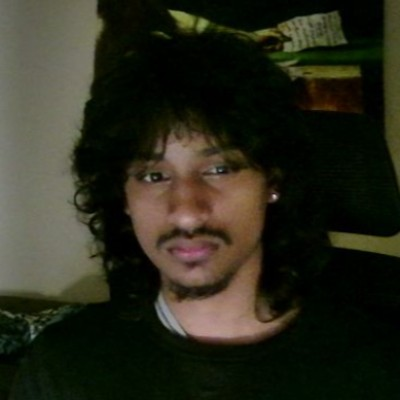
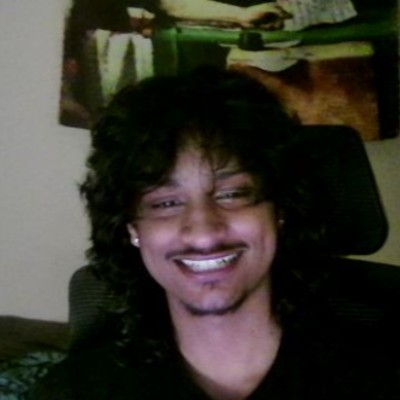
profile changed

diff --git a/src/data/content.js b/src/data/content.js
@@ -10,8 +10,8 @@ export const profile = {
     'Computer Scientist',
     'AI/ML Engineer',
   ],
-  location: 'Colorado',
-  email: 'charugundla.adarsh@gmail.com',
+  location: 'Boulder, Colorado',
+  email: 'livingglitch321@gmail.com',
   photo: '/profile.jpg',
 }
 
@@ -22,7 +22,7 @@ export const socialLinks = [
     url: 'https://www.linkedin.com/in/adarsh-charugundla-76855924a/',
     icon: 'linkedin',
   },
-  { label: 'Email', url: 'mailto:charugundla.adarsh@gmail.com', icon: 'mail' },
+  { label: 'Email', url: 'mailto:livingglitch321@gmail.com', icon: 'mail' },
 ]
 
 export const about = {
@@ -37,8 +37,8 @@ export const about = {
     'Interests: guitar, bass, drums, piano, music production, music engineering/mastering.',
   ],
   personalInfo: [
-    { label: 'Location', value: 'Colorado' },
-    { label: 'Email', value: 'charugundla.adarsh@gmail.com' },
+    { label: 'Location', value: 'Boulder, Colorado' },
+    { label: 'Email', value: 'livingglitch321@gmail.com' },
     { label: 'Education', value: 'University of Colorado Boulder' },
   ],
 }
@@ -51,47 +51,50 @@ export const portfolioItems = [
   {
     id: 'skyit-devops-intern',
     category: 'Experience',
-    title: 'DevOps Engineer (Intern): SkyIT (GBCS Group)',
-    period: 'Dec 2025 - Apr 2026',
+    title: 'DevOps Team Lead (Intern): SkyIT',
+    period: 'Current',
     description:
-      'Provisioned secure multi-environment AWS infrastructure with Terraform, containerized services with Docker/ECR, orchestrated Kubernetes workloads, and built GitHub Actions CI/CD pipelines.',
-    tags: ['Terraform', 'AWS', 'Kubernetes', 'Docker', 'OIDC', 'CI/CD'],
+      'Led deployment of secure, scalable AWS infrastructure as DevOps Team Lead. Directed Terraform IaC initiatives across three isolated VPC environments (LokoMotive, Aukai, Orion), automated RDS provisioning, and containerized full-stack apps via Docker/ECR.',
+    tags: ['Terraform', 'AWS', 'OIDC', 'CI/CD', 'Docker', 'ECR'],
     link: 'https://skyit.services',
   },
   {
-    id: 'iam-least-privilege-audit',
+    id: 'nodejs-postgresql-api',
     category: 'Projects',
-    title: 'FrazyCorp IAM Least-Privilege Enforcement',
+    title: 'NodeJS PostgreSQL API',
     period: '',
     description:
-      'Terraform-managed IAM enforcement system for a simulated multi-department AWS environment, reducing overpermissioned roles from 4 to 0. Automated compliance auditing with AWS Config and IAM Access Analyzer, plus a GitHub Actions OIDC security gate blocking overpermissive policies before they reach AWS.',
-    tags: ['Terraform', 'AWS IAM', 'AWS Config', 'GitHub Actions', 'Python', 'boto3'],
-    link: 'https://github.com/AdarshChar/iam-least-privilege-audit',
+      'Built a RESTful API with Node.js and Express.js backed by PostgreSQL, implementing full CRUD across multiple endpoints with proper HTTP methods, status codes, and error handling. Applied SQL query optimization, connection pooling, and MVC architecture with custom middleware.',
+    tags: ['Node.js', 'Express.js', 'PostgreSQL', 'Docker', 'REST API'],
+    link: 'https://github.com/AdarshChar/NodeJS',
   },
   {
-    id: 'gtsdb-roadsign-classifier',
+    id: 'road-sign-detector',
     category: 'Projects',
-    title: 'Traffic Sign Detection System',
-    period: '',
+    title: 'Road Sign Detector: YOLOv8 Transfer Learning Study',
+    period: '2025',
     description:
-      'Trained YOLOv8n on the GTSDB dataset (43 classes), improving recall by 31.3% via a custom photometric augmentation pipeline. Built a preprocessing pipeline converting PPM annotations to YOLO format across 852 ground-truth entries.',
-    tags: ['Python', 'YOLOv8', 'OpenCV', 'Roboflow', 'NumPy'],
+      'Trained and compared two YOLOv8s models on a stratified 7,500-image subset of GTSRB (43 classes) to study the impact of harsh-condition augmentation on detection robustness. Built a custom Albumentations pipeline simulating night driving, motion blur, fog, and compression artifacts, improving mAP resilience on a synthetically degraded test set versus an unaugmented baseline.',
+    tags: ['Python', 'YOLOv8', 'OpenCV', 'Albumentations', 'Google Colab'],
     link: 'https://github.com/AdarshChar/GTSDB-Roadsign-Classifier',
   },
 ]
 
 export const experience = {
-  role: 'DevOps Engineer (Intern)',
-  company: 'SkyIT (GBCS Group)',
+  role: 'DevOps Team Lead (Intern)',
+  company: 'SkyIT',
   companyUrl: 'https://skyit.services',
-  period: 'Dec 2025 - Apr 2026',
-  stack: 'Terraform, AWS (VPC, RDS, ECR), Kubernetes, Docker, OIDC, CI/CD',
+  period: 'Current',
+  stack: 'Terraform, AWS, OIDC, CI/CD',
   bullets: [
-    'Provisioned secure AWS infrastructure across three isolated environments (LokoMotive, Aukai, Orion) using Terraform IaC, designing custom VPC topologies with CIDR-level network segmentation.',
-    'Automated RDS deployments via reusable Terraform modules, authoring tfvars configurations and smoke-testing procedures that standardized provisioning, ensured high-availability storage, and reduced manual configuration errors.',
-    'Containerized frontend and backend services with Docker, building, tagging, and managing images through secure ECR pipelines for consistent deployments across all environments.',
-    'Built GitHub Actions CI/CD pipelines to automate build, test, and release stages, reducing manual intervention and ensuring stable, repeatable releases across all environments.',
-    'Orchestrated containerized workloads on Kubernetes across development and production, deploying via Docker images and ECR pipelines while managing pod scheduling, autoscaling, and service networking for reliable releases.',
+    'Led the deployment of secure, scalable AWS infrastructure for enterprise applications. Directed Infrastructure as Code (IaC) initiatives using Terraform to automate provisioning, optimize RDS architectures, and enforce strict network isolation via custom VPC configurations across all environments.',
+    'Architected secure cloud networks: designed and implemented isolated Virtual Private Cloud (VPC) topologies utilizing custom CIDR blocks for the LokoMotive, Aukai, and Orion environments, ensuring robust network security and strict traffic segmentation.',
+    'Automated database provisioning: configured and deployed highly resilient Relational Database Service (RDS) modules via Terraform, streamlining backend data management and establishing high-availability storage for mission-critical applications.',
+    'Streamlined infrastructure deployment: authored comprehensive deployment documentation, Terraform variable (tfvars) configurations, and smoke testing procedures, significantly reducing manual configuration errors and accelerating new project onboarding.',
+    'Cross-functional collaboration: partnered with engineering leads and deployment teams to coordinate seamless application migrations, orchestrate task scheduling, and manage secure container registries utilizing AWS ECR.',
+    'Team leadership and orchestration: acted as DevOps Team Lead, coordinating with project leads and engineering teams to streamline application migrations and automate infrastructure workflows.',
+    'Containerized full-stack applications: Dockerized frontend and backend repositories, built and tagged container images, and pushed them to AWS Elastic Container Registry (ECR) to enable consistent, repeatable deployments across environments.',
+    'CI/CD pipeline integration: worked within existing CI/CD pipeline frameworks to automate build, test, and deployment stages, reducing manual intervention and ensuring stable, repeatable release processes across development and production environments.',
   ],
 }
 
@@ -105,28 +108,20 @@ export const education = {
 
 export const technicalSkills = [
   {
-    category: 'Languages',
-    items: ['Python', 'JavaScript (ES6+)', 'TypeScript', 'C/C++', 'SQL', 'Bash', 'HTML/CSS'],
+    category: 'Computer Languages',
+    items: ['C/C++', 'JavaScript (ES6, ES5)', 'TypeScript', 'Python', 'Bash', 'SQL', 'HTML/CSS', 'Scala'],
   },
   {
-    category: 'Frameworks & Libraries',
-    items: ['React', 'Node.js', 'Express.js', 'boto3'],
+    category: 'Protocols & APIs',
+    items: ['XML', 'JSON', 'Node.js', 'Express.js', 'REST API', 'HTTP/HTTPS'],
   },
   {
-    category: 'Cloud & DevOps',
-    items: ['AWS', 'Terraform', 'Kubernetes', 'Docker', 'ECR', 'CI/CD', 'OIDC'],
+    category: 'Databases',
+    items: ['MySQL', 'PostgreSQL', 'Microsoft SQL', 'Oracle'],
   },
   {
-    category: 'Security & Compliance',
-    items: ['IAM Least Privilege', 'AWS Config', 'Access Analyzer', 'Checkov', 'Static Analysis'],
-  },
-  {
-    category: 'AI & Data',
-    items: ['YOLOv8', 'OpenCV', 'Roboflow', 'NumPy'],
-  },
-  {
-    category: 'Databases & Tools',
-    items: ['PostgreSQL', 'MySQL', 'Microsoft SQL Server', 'Oracle', 'Git', 'Vim', 'Jest', 'JUnit'],
+    category: 'Tools',
+    items: ['Git', 'Vim', 'Docker', 'xUnit', 'Jest', 'JUnit'],
   },
 ]
 

diff --git a/src/index.css b/src/index.css
@@ -290,7 +290,7 @@ section {
 
 .about-grid {
   display: grid;
-  grid-template-columns: 260px 1fr;
+  grid-template-columns: 340px 1fr;
   gap: 56px;
 }
 
@@ -308,8 +308,8 @@ section {
 }
 
 .about-photo {
-  width: 220px;
-  height: 220px;
+  width: 300px;
+  height: 300px;
   border-radius: 50%;
   border: 2px solid var(--border);
   overflow: hidden;
@@ -328,7 +328,7 @@ section {
 
 .about-photo-initials {
   font-family: var(--font-mono);
-  font-size: 3.5rem;
+  font-size: 4.5rem;
   color: var(--accent);
   font-weight: 700;
 }
